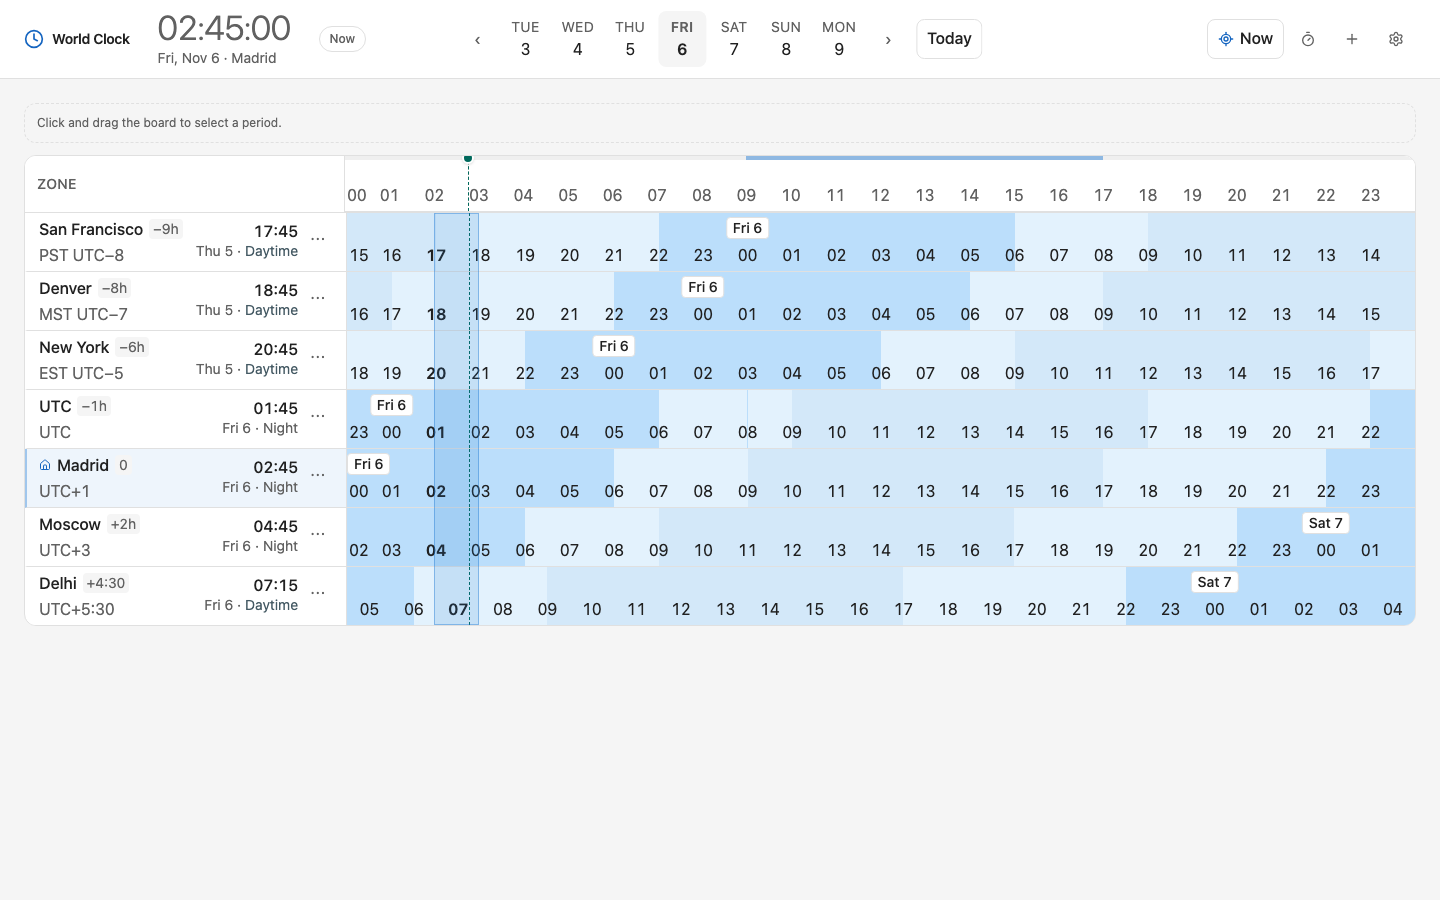
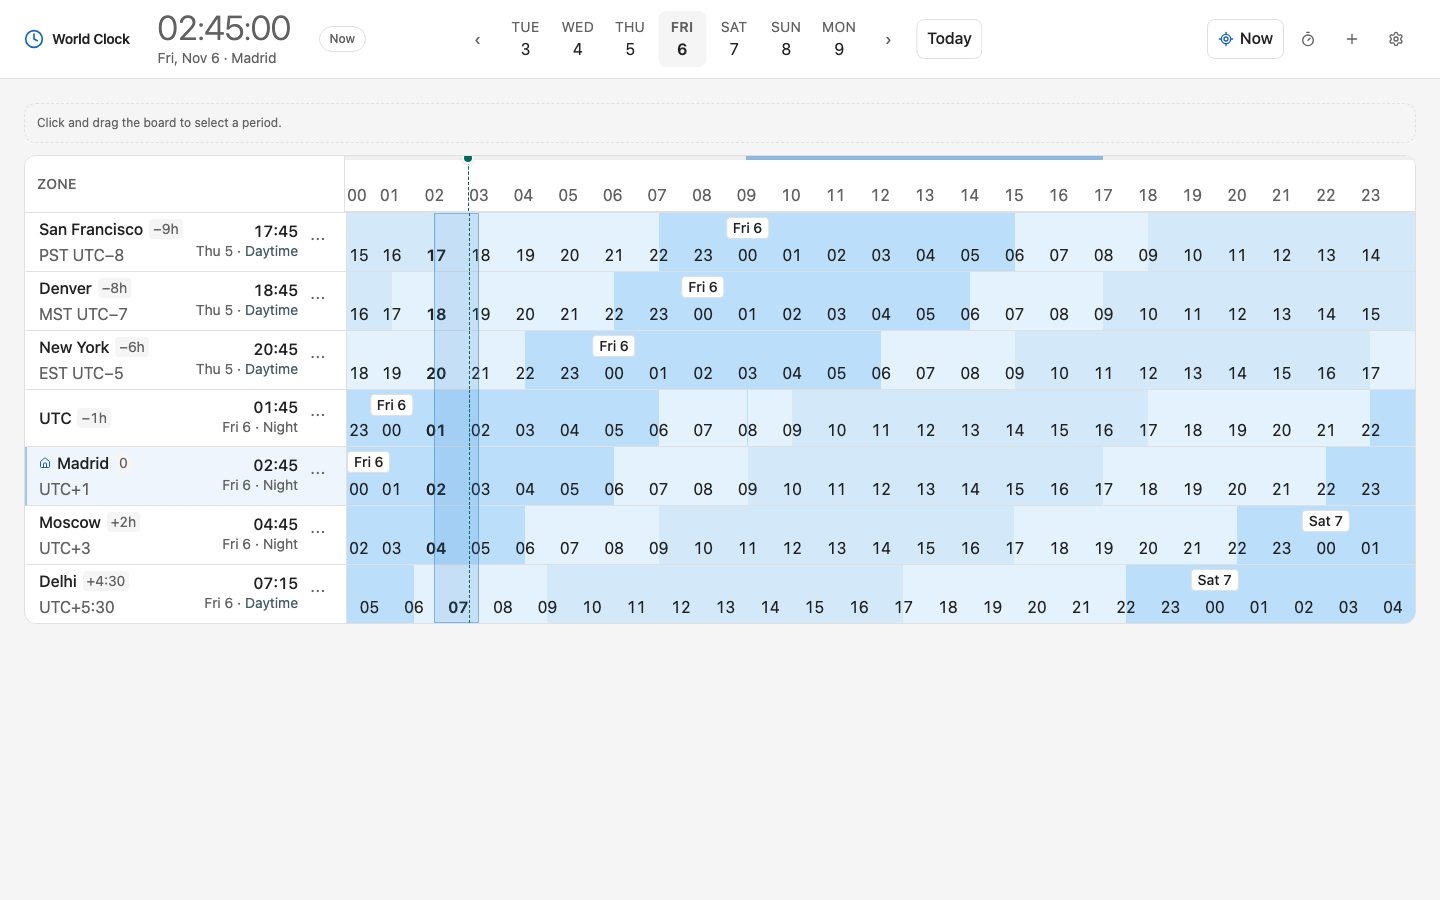
fix: hide duplicate UTC metadata
Omit UTC offset and IANA labels when they exactly duplicate the zone label. The UTC zone now shows the relative offset and local time without a redundant UTC line.

diff --git a/src/lib/components/ZoneRow.svelte b/src/lib/components/ZoneRow.svelte
@@ -97,6 +97,12 @@
   const showAbbreviationLabel = $derived(
     showAbbreviation && (!offsetAbbreviation || !showUtcOffset),
   );
+  const utcOffsetLabel = $derived(formatUtcOffset(model.offsetMinutes));
+  const showUtcOffsetLabel = $derived(showUtcOffset && utcOffsetLabel !== model.label);
+  const showIanaLabel = $derived(showIana && model.timeZone !== model.label);
+  const hasMetadata = $derived(
+    showAbbreviationLabel || showUtcOffsetLabel || (showDst && model.dst.active) || showIanaLabel,
+  );
 </script>
 
 <div
@@ -126,25 +132,27 @@
         <span class="text-text truncate text-sm font-medium sm:text-base">{model.label}</span>
         <span
           class="bg-surface text-muted shrink-0 rounded px-1 text-xs tabular-nums sm:text-sm"
-          title={`UTC offset ${formatUtcOffset(model.offsetMinutes)}`}
+          title={`UTC offset ${utcOffsetLabel}`}
         >
           {formatOffset(model.relativeOffsetMinutes)}
         </span>
       </div>
-      <div class="text-muted mt-0.5 flex flex-wrap items-center gap-1 text-xs sm:text-base">
-        {#if showAbbreviationLabel}
-          <span>{model.abbreviation}</span>
-        {/if}
-        {#if showUtcOffset}
-          <span>{formatUtcOffset(model.offsetMinutes)}</span>
-        {/if}
-        {#if showDst && model.dst.active}
-          <span class="bg-status-day/15 text-status-day rounded px-1">DST</span>
-        {/if}
-        {#if showIana}
-          <span class="max-w-24 truncate sm:max-w-40">{model.timeZone}</span>
-        {/if}
-      </div>
+      {#if hasMetadata}
+        <div class="text-muted mt-0.5 flex flex-wrap items-center gap-1 text-xs sm:text-base">
+          {#if showAbbreviationLabel}
+            <span>{model.abbreviation}</span>
+          {/if}
+          {#if showUtcOffsetLabel}
+            <span>{utcOffsetLabel}</span>
+          {/if}
+          {#if showDst && model.dst.active}
+            <span class="bg-status-day/15 text-status-day rounded px-1">DST</span>
+          {/if}
+          {#if showIanaLabel}
+            <span class="max-w-24 truncate sm:max-w-40">{model.timeZone}</span>
+          {/if}
+        </div>
+      {/if}
     </div>
 
     <div class="flex w-full shrink-0 items-start justify-between gap-1 sm:w-auto sm:justify-start">

diff --git a/e2e/world-clock.spec.ts b/e2e/world-clock.spec.ts
@@ -498,7 +498,7 @@ test('hides redundant offset abbreviations and simplifies UTC offsets', async ({
   await expect(
     page.getByTestId('row-Europe/Moscow').getByText('UTC+3', { exact: true }),
   ).toBeVisible();
-  await expect(page.getByTestId('row-UTC').getByText('UTC', { exact: true })).toHaveCount(2);
+  await expect(page.getByTestId('row-UTC').getByText('UTC', { exact: true })).toHaveCount(1);
   await expect(
     page.getByTestId('row-America/Los_Angeles').getByText('PST', { exact: true }),
   ).toBeVisible();

diff --git a/docs/architecture.md b/docs/architecture.md
@@ -89,7 +89,8 @@ Import replaces the current document only after confirmation. Export includes
   timeline labels stay legible instead of shrinking.
 - Display settings control abbreviation, exact offset, DST badge, IANA name,
   date labels, and work bands. Offset-style abbreviations are suppressed when
-  the exact UTC offset is shown; zero-minute offsets render as `UTC+3`.
+  the exact UTC offset is shown; zero-minute offsets render as `UTC+3`. Metadata
+  that duplicates the zone label is omitted.
 - Keyboard shortcuts are global except in text fields or open dialogs.
 - Tailwind `dark:` variants are bound to `data-theme='dark'` so the explicit
   theme works when the OS theme differs. Status, warning, danger, and accent

diff --git a/AGENTS.md b/AGENTS.md
@@ -103,6 +103,8 @@ docs/architecture.md  current design
   positioning; do not restore a separate full-width strip.
 - Hide `GMT…`/`UTC…` abbreviations when the UTC offset is already visible.
   Format zero-minute offsets as `UTC+3`/`UTC−8`; zero is `UTC`.
+- Do not repeat metadata that equals the zone label. The UTC zone omits its
+  redundant UTC offset and IANA lines.
 - Mobile inputs and selects are 16px and at least 44px tall to avoid iOS zoom.
 - Keep primary pointer targets at least 24×24; aim for 32px or more.
 - Respect `prefers-reduced-motion`.
